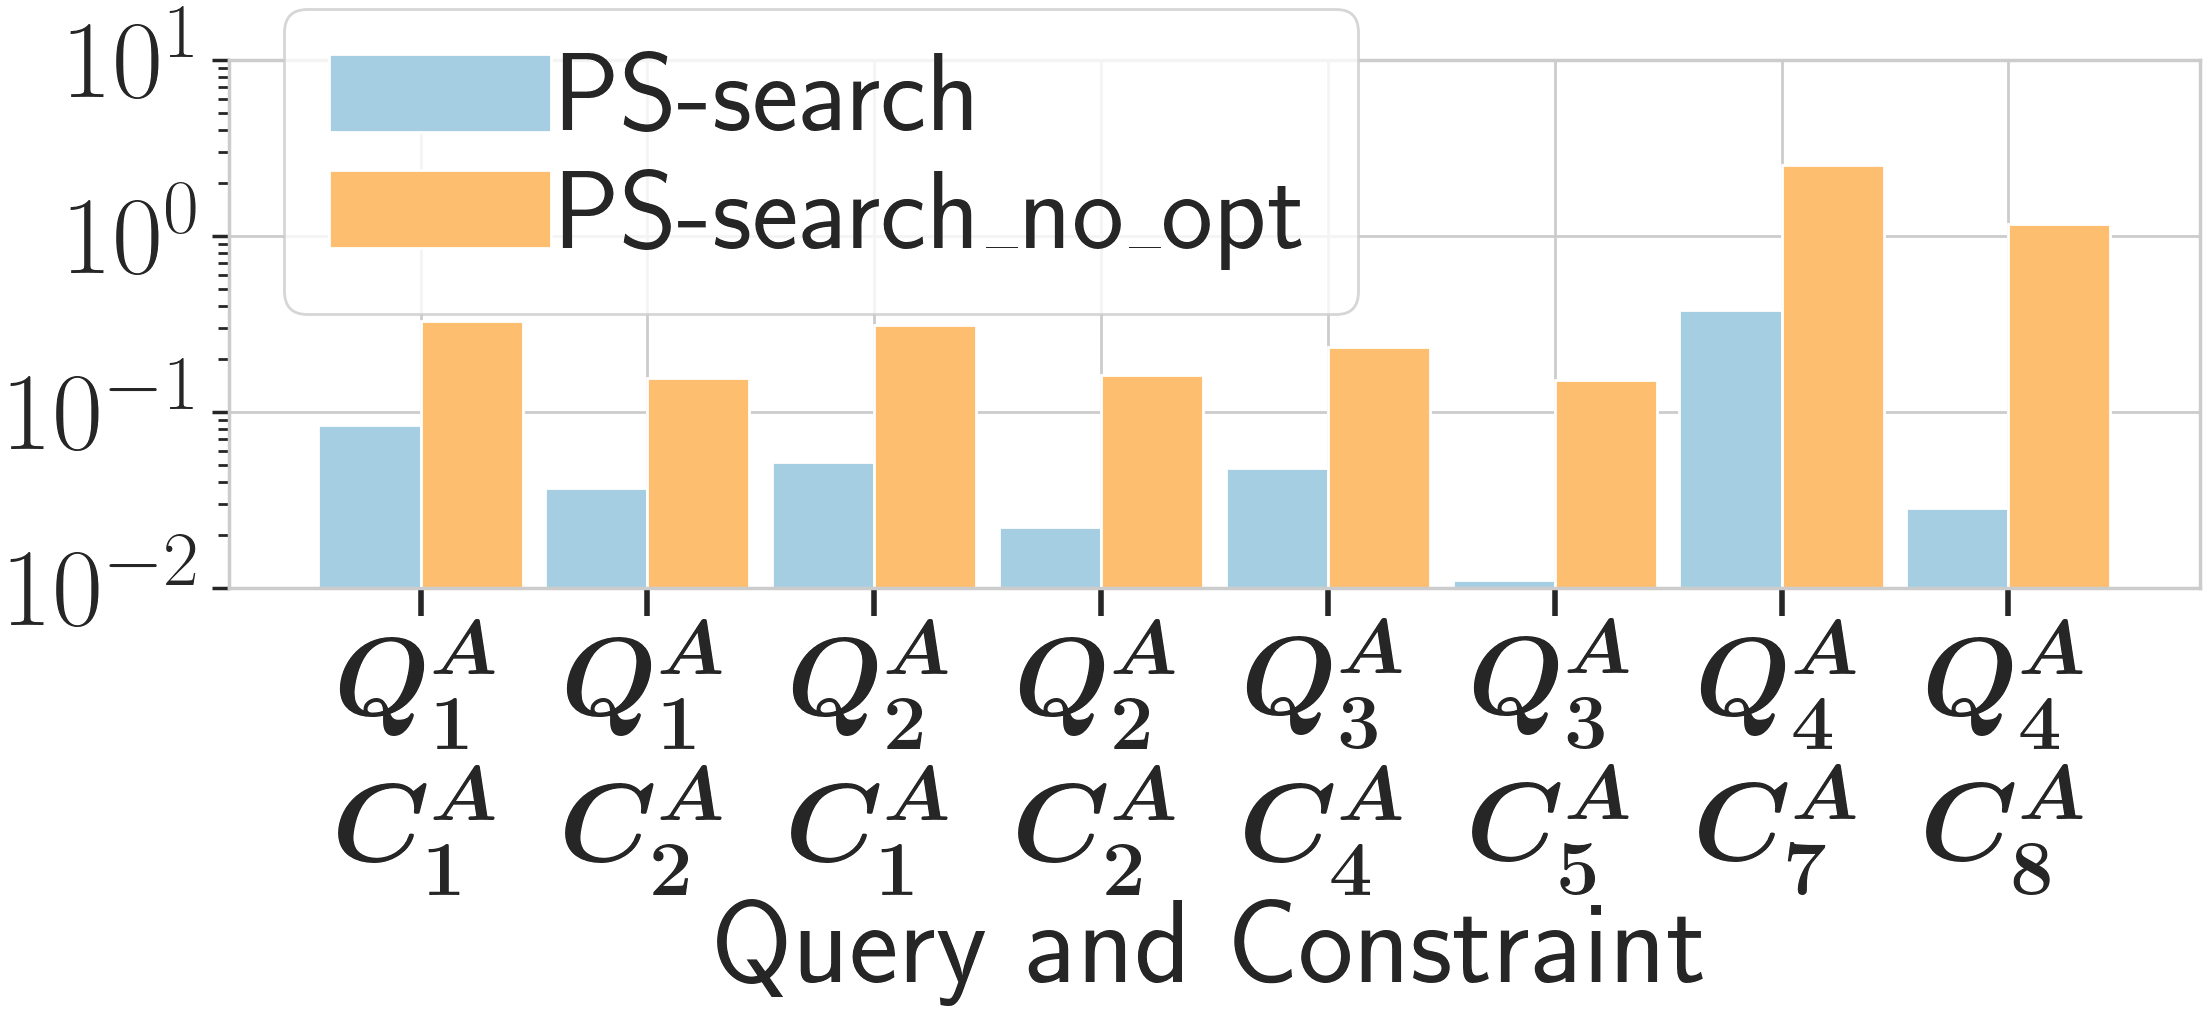
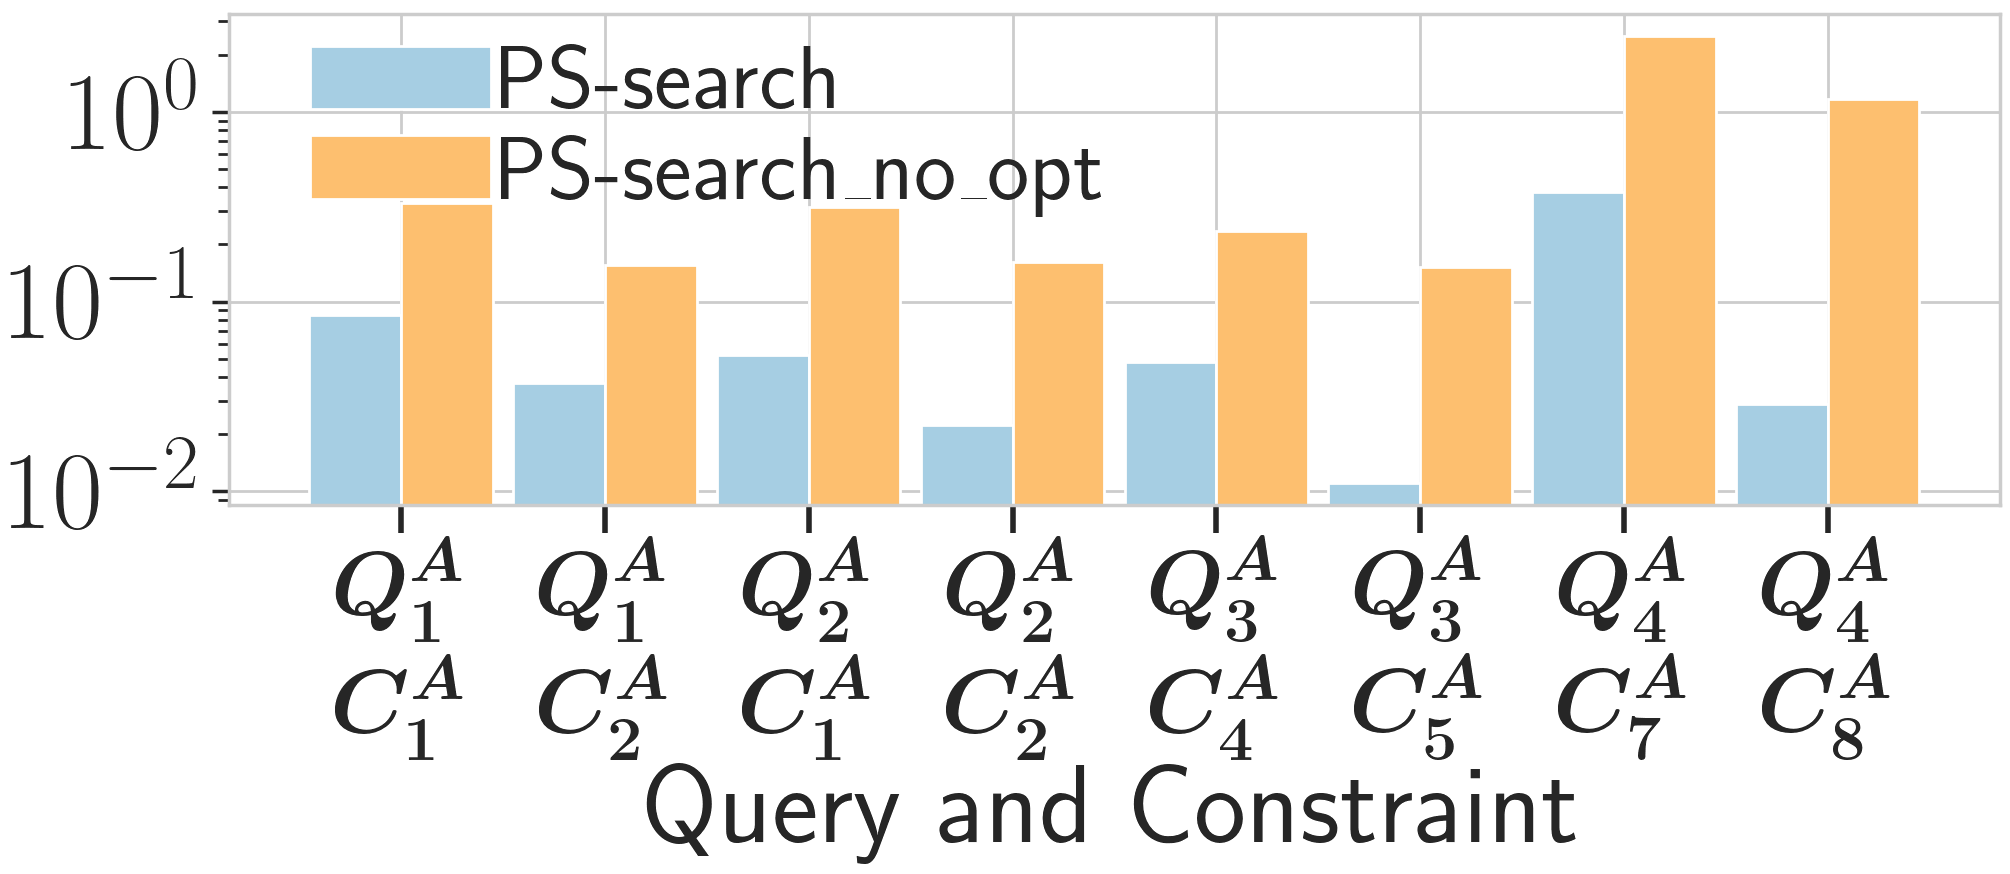
exp ACSIncome effect opt

diff --git a/Experiment/ACSIncome/whole_data/effect_optimizatoin/fig_4q.py b/Experiment/ACSIncome/whole_data/effect_optimizatoin/fig_4q.py
@@ -19,7 +19,7 @@ plt.rc('font', size=70, weight='bold')
 color = ['C1', 'C0', 'C7', 'C6']
 label = ['PS-prov', "PS-search", "PS-prov\_no\_opt", "PS-search\_no\_opt"]
 
-f_size = (24, 13)
+f_size = (22, 11)
 
 x_list = list()
 x_naive = list()
@@ -78,17 +78,18 @@ x_list = ['\\boldmath$Q^A_1$\n\\boldmath$C^A_1$', '\\boldmath$Q^A_1$\n\\boldmath
           ]
 
 
-plt.xticks(np.arange(0, 8) + bar_width/2, x_list, rotation=0, fontsize=80)
+plt.xticks(np.arange(0, 8) + bar_width/2, x_list, rotation=0, fontsize=65)
 plt.yticks(fontsize=80, weight='bold')
-plt.ylim(0.01, 10)
-plt.xlabel('Query and Constraint', fontsize=85, weight='bold')
+# plt.ylim(0.01, 10)
+plt.xlabel('Query and Constraint', fontsize=80, weight='bold')
 
 plt.yscale('log')
 # lgnd = plt.legend(loc='upper left', bbox_to_anchor=(0, 1.2), fontsize=80, ncol=2, labelspacing=0.4,
 #                   handletextpad=0.1, markerscale=0.5, columnspacing=0.5)
 
-lgnd = plt.legend(loc='upper left', bbox_to_anchor=(0, 1.2), fontsize=80, ncol=1,
-                  labelspacing=0.15, handletextpad=0.1, markerscale=0.5, columnspacing=0.5)
+lgnd = plt.legend(loc='upper left', bbox_to_anchor=(0, 1.1), fontsize=65, ncol=1,
+                  labelspacing=0.1, handletextpad=0.1, markerscale=0.5, columnspacing=0.5,
+                  frameon=False)
 
 
 plt.tight_layout()
